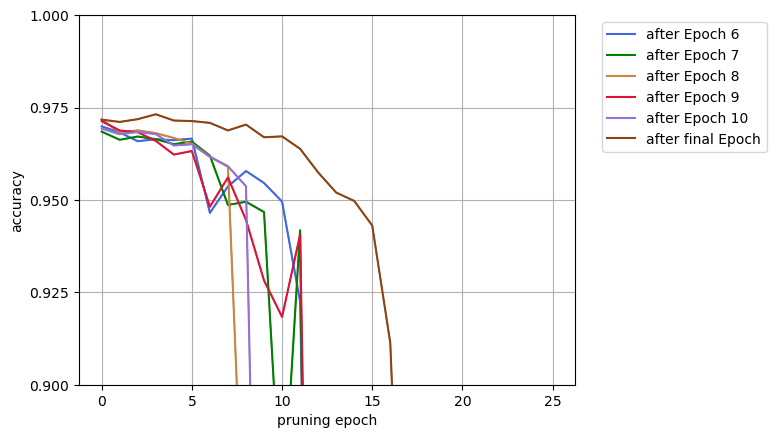
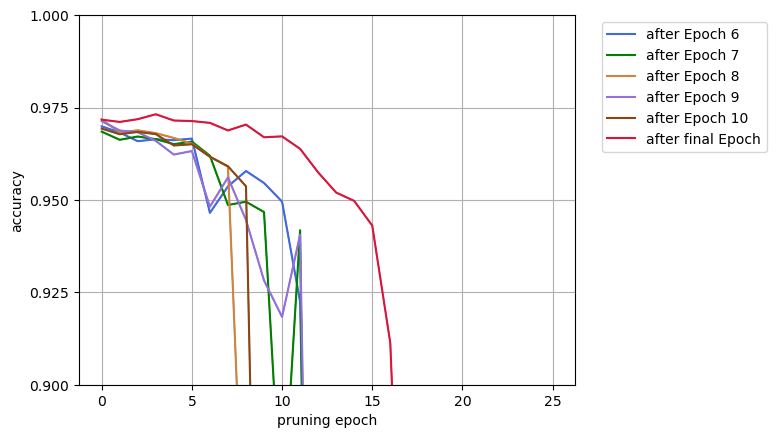
Upd: Corrected a visualization

diff --git a/PyCharm/main.py b/PyCharm/main.py
@@ -253,7 +253,7 @@ def main():
 
                 # colors = ["royalblue", "green", "peru", "crimson"]
                 # colors = ["mediumpurple", "saddlebrown", "gold", "crimson"]
-                colors = ["royalblue", "green", "peru", "crimson", "mediumpurple", "saddlebrown", "gold"]
+                colors = ["royalblue", "green", "peru", "mediumpurple", "saddlebrown", "crimson"]
                 #"""
                 visualization.plot_converged_measure_over_different_pruning_depths(
                     vis_results,
